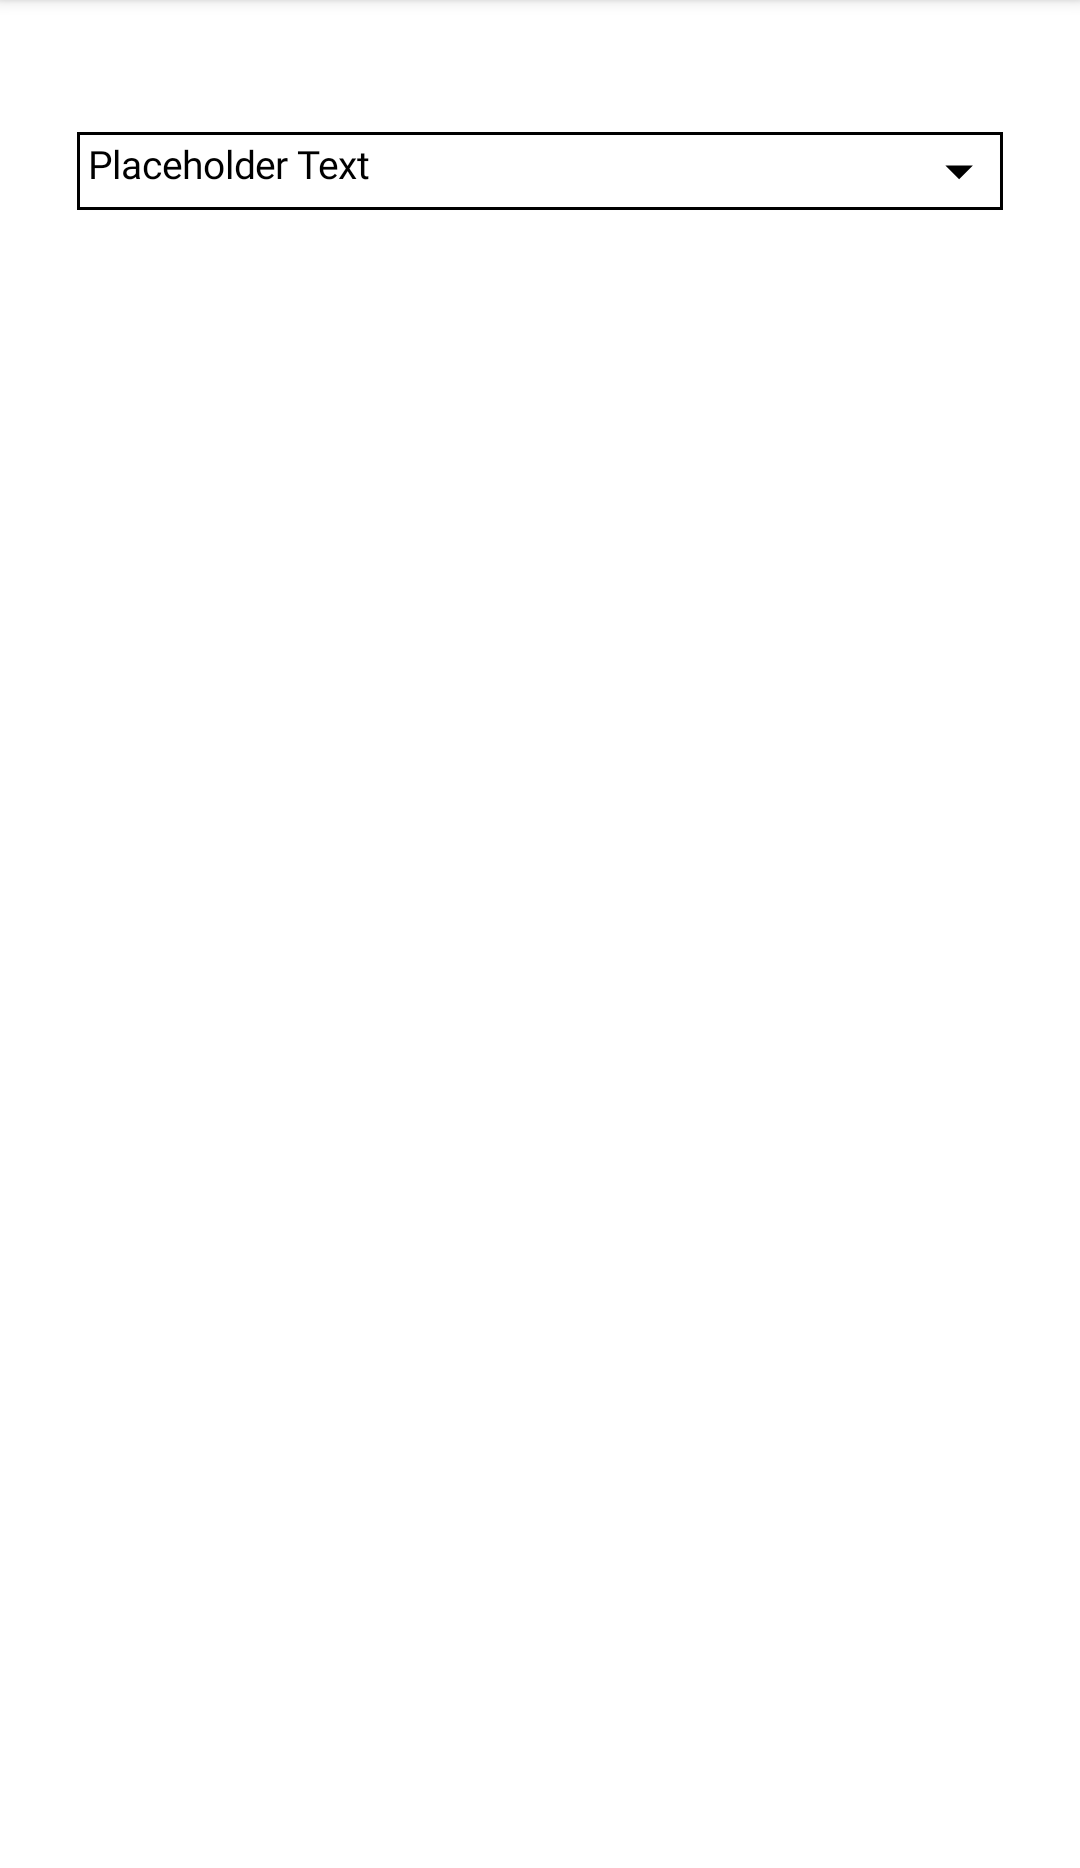
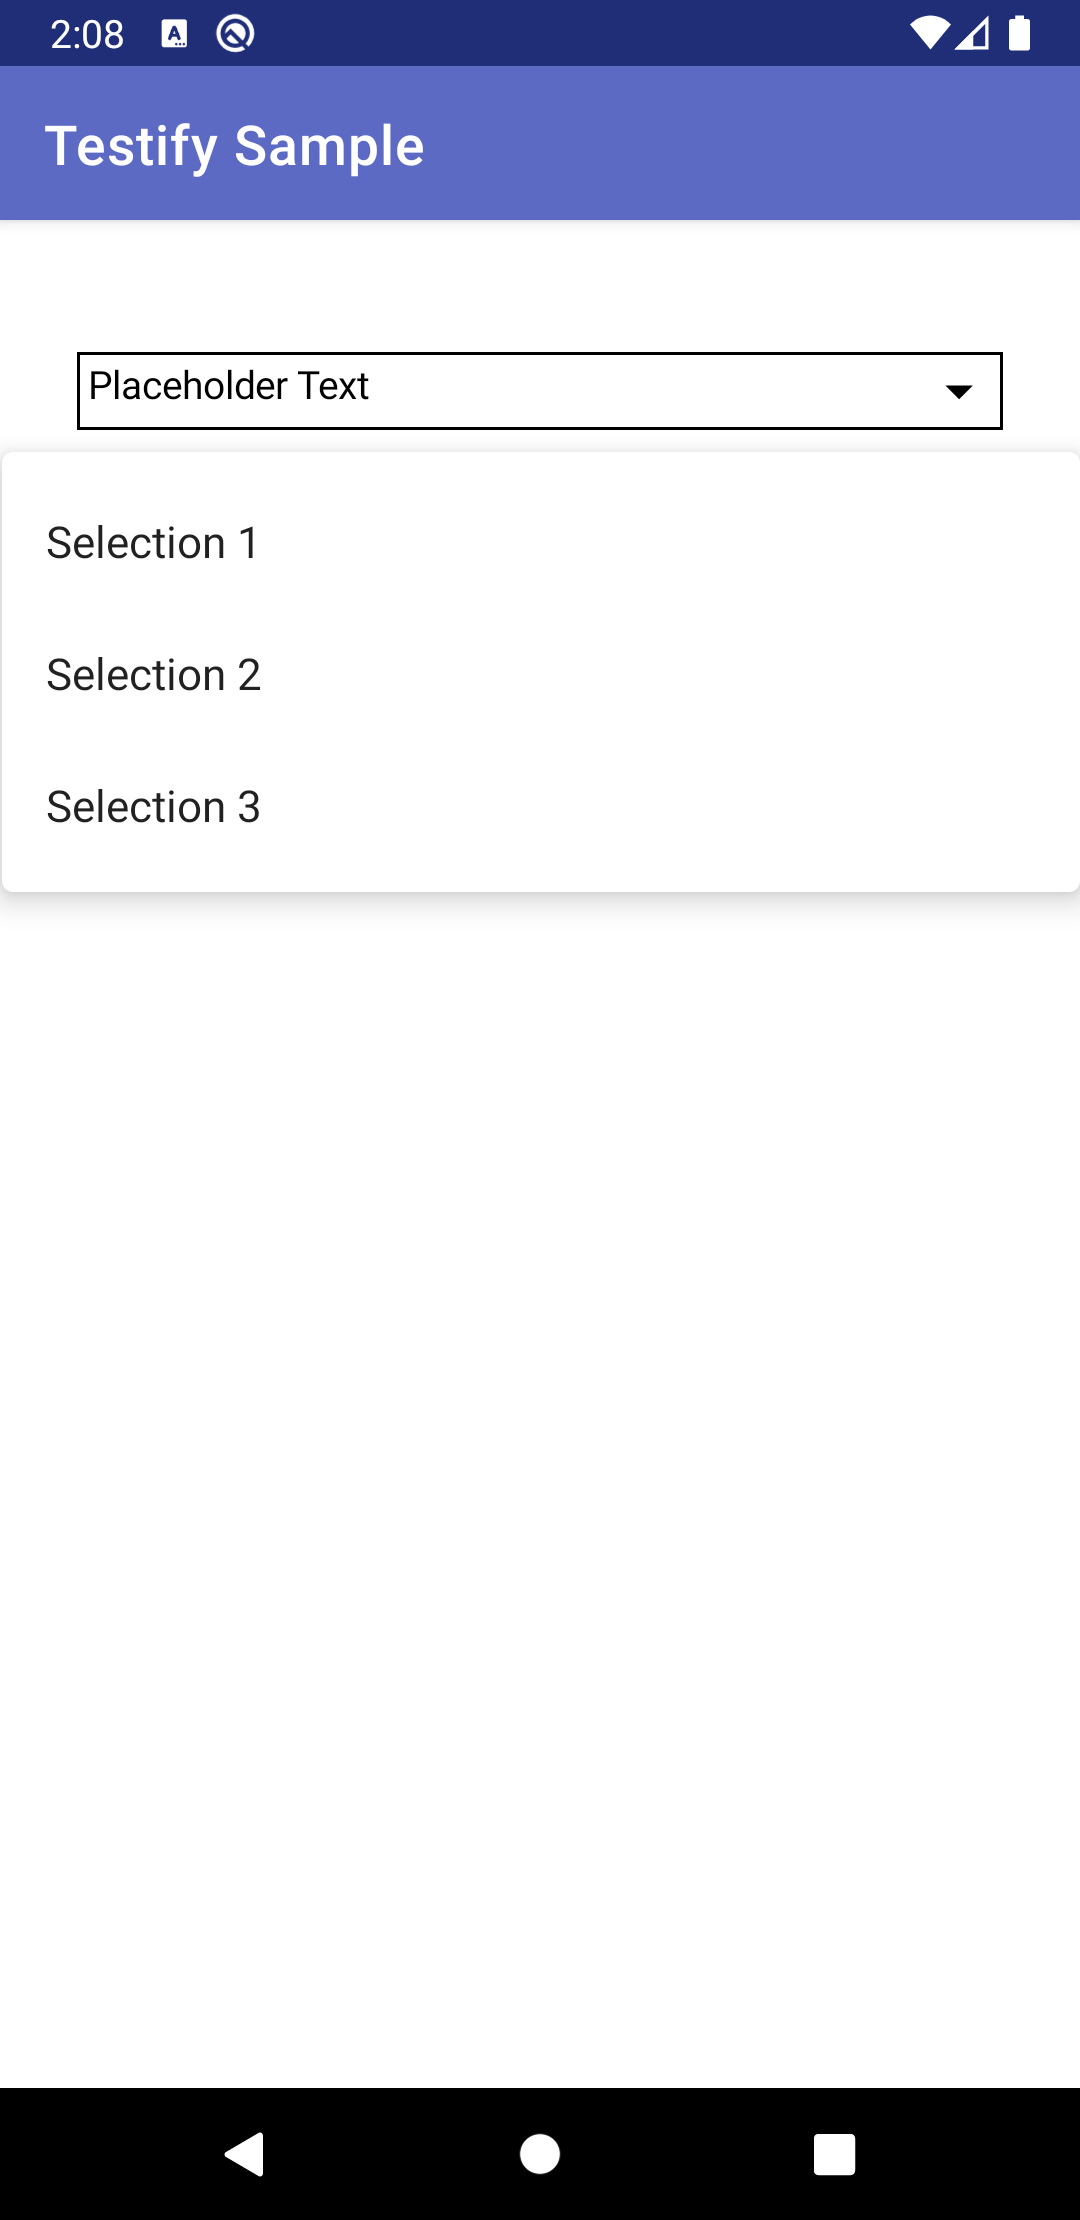
120: Allow customization of capture method when using ComposeScreenshotRule

diff --git a/Ext/Compose/src/main/java/dev/testify/ComposableScreenshotRule.kt b/Ext/Compose/src/main/java/dev/testify/ComposableScreenshotRule.kt
@@ -56,9 +56,22 @@ open class ComposableScreenshotRule(
 ) {
     lateinit var composeFunction: @Composable () -> Unit
     private var composeActions: ((ComposeTestRule) -> Unit)? = null
+    private var captureMethod: CaptureMethod = ::pixelCopyCapture
 
     open fun onCleanUp(activity: Activity) {
         activity.disposeComposition()
+    }
+
+    /**
+     * Allow the test to define a custom bitmap capture method.
+     * The provided [captureMethod] will be used to create and save a [Bitmap] of the Activity and View under test.
+     */
+    override fun setCaptureMethod(captureMethod: CaptureMethod?): ComposableScreenshotRule {
+        if (captureMethod != null)
+            this.captureMethod = captureMethod
+        else
+            this.captureMethod = ::pixelCopyCapture
+        return this
     }
 
     /**
@@ -66,7 +79,7 @@ open class ComposableScreenshotRule(
      */
     override fun beforeAssertSame() {
         super.beforeAssertSame()
-        setCaptureMethod(::pixelCopyCapture)
+        super.setCaptureMethod(captureMethod)
         setScreenshotViewProvider {
             it.getChildAt(0)
         }

diff --git a/Samples/Legacy/src/androidTest/java/dev/testify/sample/compose/ComposableScreenshotTest.kt b/Samples/Legacy/src/androidTest/java/dev/testify/sample/compose/ComposableScreenshotTest.kt
@@ -41,6 +41,8 @@ import androidx.compose.ui.unit.dp
 import androidx.compose.ui.unit.sp
 import dev.testify.ComposableScreenshotRule
 import dev.testify.annotation.ScreenshotInstrumentation
+import dev.testify.capture.fullscreen.captureFullscreen
+import dev.testify.capture.fullscreen.provider.excludeSystemUi
 import dev.testify.sample.ClientListItem
 import dev.testify.sample.DropdownDemo
 import dev.testify.sample.R
@@ -147,6 +149,10 @@ class ComposableScreenshotTest {
                 ) {
                     DropdownDemo(true)
                 }
+            }
+            .captureFullscreen()
+            .configure {
+                excludeSystemUi()
             }
             .assertSame()
     }

diff --git a/Library/src/main/java/dev/testify/ScreenshotRule.kt b/Library/src/main/java/dev/testify/ScreenshotRule.kt
@@ -212,7 +212,7 @@ open class ScreenshotRule<T : Activity> @JvmOverloads constructor(
      * Allow the test to define a custom bitmap capture method.
      * The provided [captureMethod] will be used to create and save a [Bitmap] of the Activity and View under test.
      */
-    fun setCaptureMethod(captureMethod: CaptureMethod?): ScreenshotRule<T> {
+    open fun setCaptureMethod(captureMethod: CaptureMethod?): ScreenshotRule<T> {
         this.captureMethod = captureMethod
         return this
     }

diff --git a/CHANGELOG.md b/CHANGELOG.md
@@ -50,6 +50,10 @@
 - Use `-Puser=<number>` to override the default user.
 - Added unit tests to the `:Plugin` project.
 
+### Compose Extension
+
+- Fixed #120 - can set a custom capture method when using ComposableScreenshotRule
+
 ---
 
 ## 2.0.0-beta01
